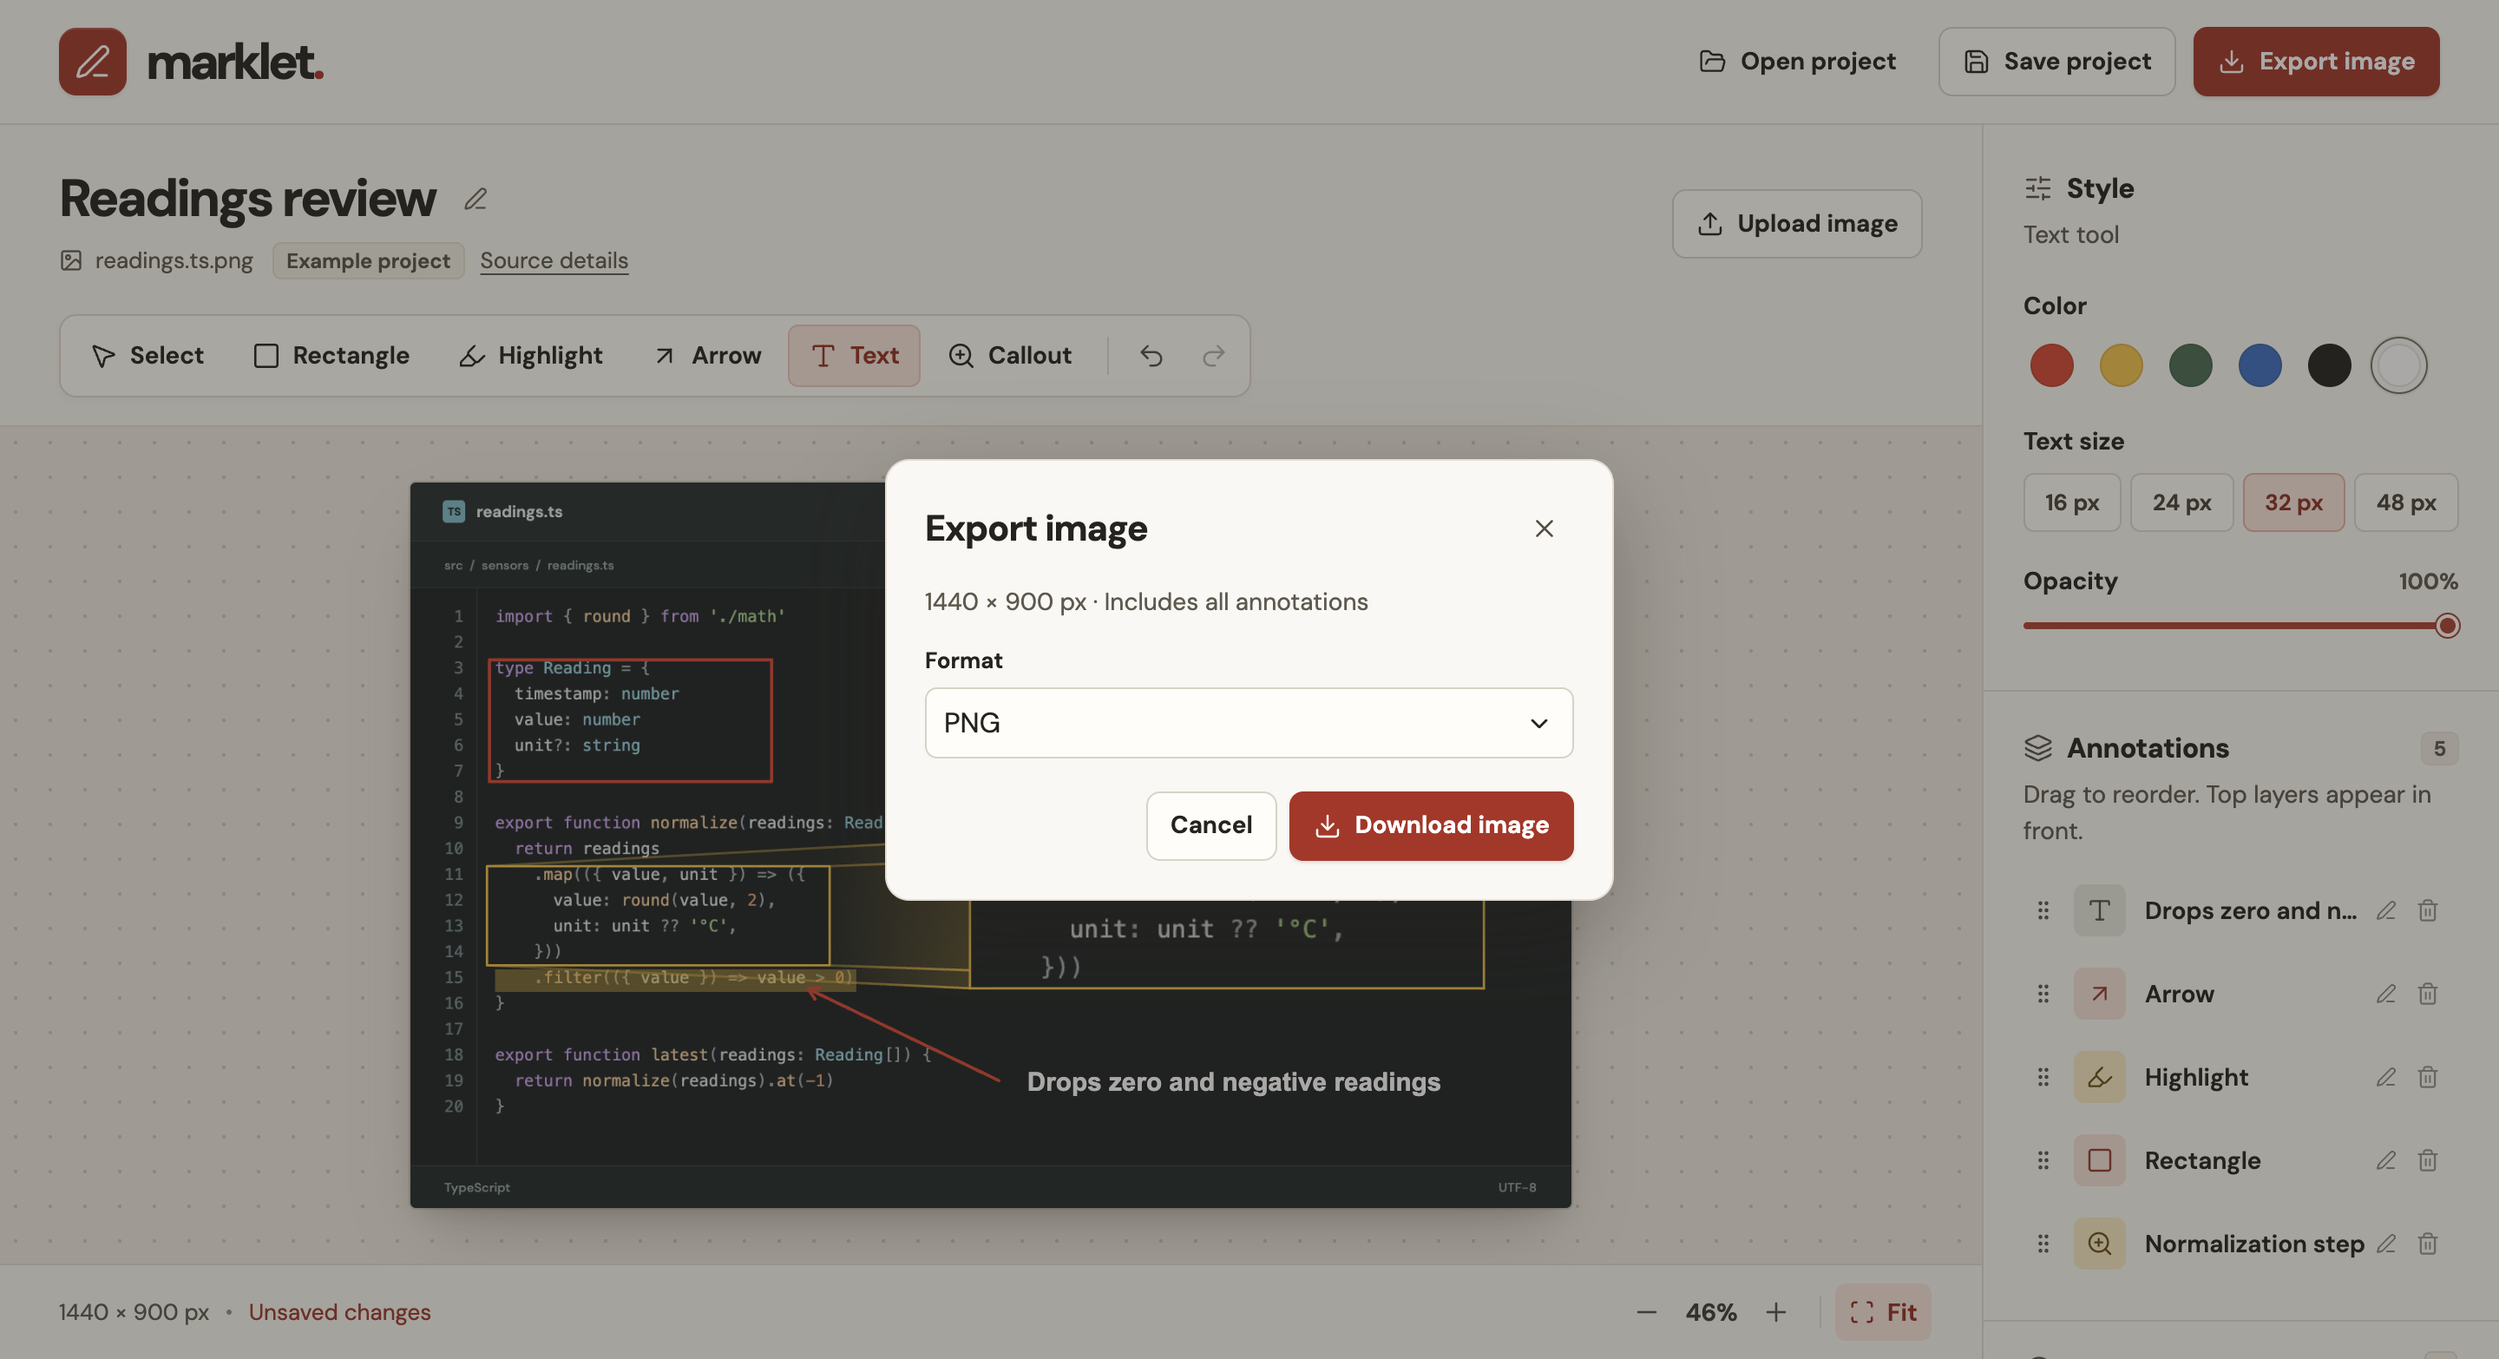
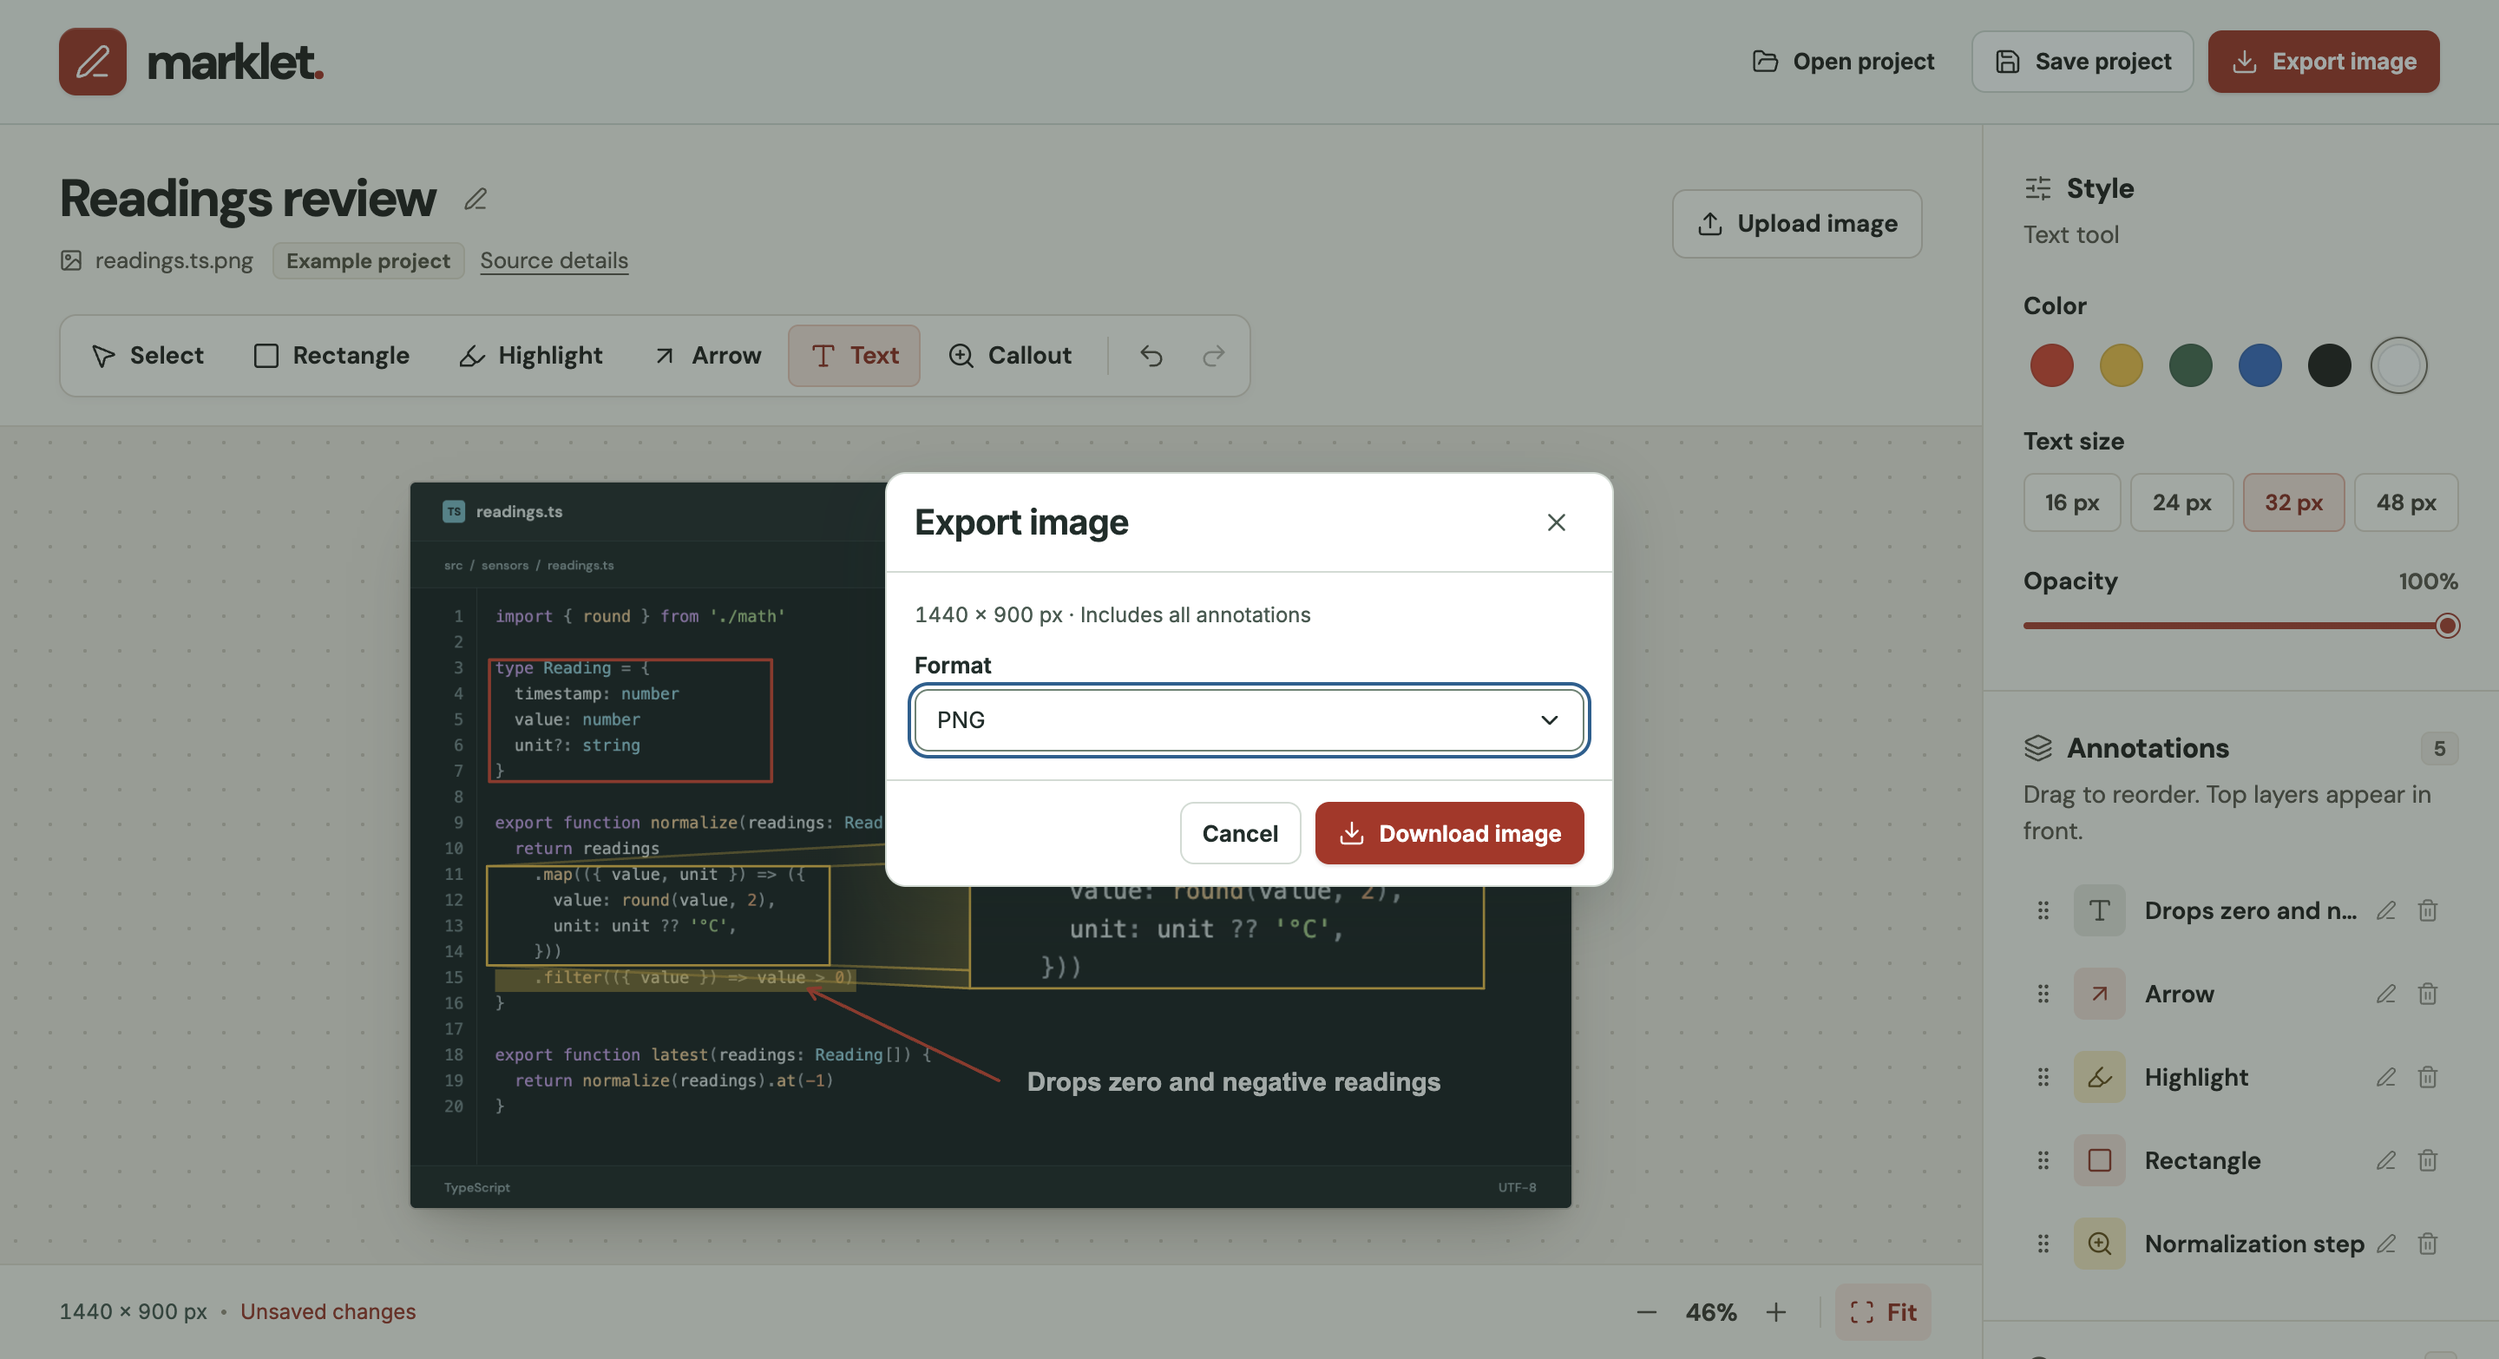
Align export controls with the suite design

diff --git a/src/style.css b/src/style.css
@@ -11,6 +11,13 @@
   --accent-button: #ac3f2c;
   --accent-tint: #f8e8e0;
   --radius: 8px;
+  --ui-font: 'Inter Variable', Inter, system-ui, sans-serif;
+  --ui-ink: #25332f;
+  --ui-muted: #52645a;
+  --ui-panel: #f6f7f4;
+  --ui-border: #d8e0d9;
+  --ui-outline: #788c7e;
+  --ui-focus: #356a9a;
 }
 
 *, *::before, *::after { box-sizing: border-box; }
@@ -31,8 +38,8 @@ h1, h2, h3, p { margin: 0; }
   align-items: center;
   justify-content: space-between;
   padding: 0 34px;
-  border-bottom: 1px solid var(--line);
-  background: var(--paper);
+  border-bottom: 1px solid var(--ui-border);
+  background: var(--ui-panel);
   gap: 20px;
   z-index: 1;
 }
@@ -51,7 +58,7 @@ h1, h2, h3, p { margin: 0; }
 .brand-icon svg { width: 21px; height: 21px; stroke-width: 1.8; }
 
 .project-actions, .button { display: inline-flex; align-items: center; }
-.project-actions { gap: 10px; }
+.project-actions { gap: 8px; }
 .button {
   justify-content: center;
   gap: 8px;
@@ -72,9 +79,13 @@ h1, h2, h3, p { margin: 0; }
 .button-outline:hover:not(:disabled) { background: #f5f0e9; border-color: #d1c8bb; }
 .button-quiet { background: transparent; }
 .button-quiet:hover:not(:disabled) { background: #f1ede5; }
+.project-actions .button, dialog .button { min-height: 36px; padding-inline: 12px; font: 650 13px/1.2 var(--ui-font); }
+:is(.project-actions, dialog) .button-outline { background: #fff; border-color: var(--ui-border); }
+:is(.project-actions, dialog) :is(.button-outline, .button-quiet):hover:not(:disabled) { background: var(--ui-panel); border-color: var(--ui-border); }
+:is(.project-actions, dialog) :focus-visible { outline: 2px solid var(--ui-focus); outline-offset: 2px; }
 
 .editor { display: grid; grid-template-columns: minmax(0, 1fr) 298px; flex: 1; min-height: 0; }
-.workspace { display: grid; grid-template-rows: auto auto minmax(0, 1fr) auto; min-width: 0; min-height: 0; }
+.workspace { display: grid; grid-template: auto auto minmax(0, 1fr) auto / minmax(0, 1fr); min-width: 0; min-height: 0; }
 .workspace-heading { display: flex; align-items: center; justify-content: space-between; padding: 25px 34px 20px; gap: 14px; }
 .project-info { min-width: 0; }
 .project-heading { display: flex; gap: 7px; align-items: center; min-width: 0; }
@@ -152,7 +163,7 @@ h1, h2, h3, p { margin: 0; }
 .drop-overlay span { color: var(--muted); font-size: .875rem; }
 
 .workspace-footer { display: flex; align-items: center; justify-content: space-between; gap: 14px; padding: 8px 29px 8px 34px; min-height: 54px; }
-.canvas-meta { display: flex; align-items: center; gap: 10px; color: var(--muted); font-variant-numeric: tabular-nums; font-size: .8125rem; }
+.canvas-meta { display: flex; align-items: center; gap: 8px; color: var(--ui-muted); font: 400 12px/1.4 var(--ui-font); font-variant-numeric: tabular-nums; }
 .status-separator { flex: 0 0 3px; height: 3px; border-radius: 50%; background: #a29a89; }
 .unsaved { color: #a6402e; }
 .zoom-controls { display: flex; align-items: center; gap: 3px; }
@@ -247,26 +258,32 @@ h1, h2, h3, p { margin: 0; }
 kbd { padding: 2px 5px; border: 1px solid #e6dfd2; border-radius: 4px; color: #5b5548; background: #f5f1e9; font: 650 .75rem/1.2 'DM Sans Variable', system-ui, sans-serif; white-space: nowrap; }
 #shortcuts kbd { margin-left: auto; min-width: 19px; text-align: center; }
 
-dialog { color: inherit; background: var(--paper); border: 1px solid var(--line); width: min(420px, calc(100% - 36px)); padding: 22px; border-radius: 14px; box-shadow: 0 18px 55px #31251e4a; }
-dialog::backdrop { background: #28251e64; }
-.dialog-heading { display: flex; align-items: center; justify-content: space-between; gap: 10px; margin-bottom: 16px; }
-.dialog-heading h2 { font-size: 1.3rem; letter-spacing: -.025em; }
-dialog p { color: var(--muted); margin: 0 0 16px; font-size: .875rem; }
-dialog label { display: block; font-size: .875rem; font-weight: 650; margin-bottom: 7px; }
-#export-dialog label { font-size: .8125rem; }
-dialog textarea, dialog select, dialog input { background: var(--white); width: 100%; border: 1px solid #ded8ce; border-radius: 7px; color: inherit; padding: 9px 10px; }
-#source-summary { display: grid; grid-template-columns: auto 1fr; gap: 7px 14px; font-size: .875rem; }
+dialog { color: var(--ui-ink); background: #fff; border: 1px solid var(--ui-border); width: min(420px, calc(100% - 32px)); padding: 0; border-radius: 12px; box-shadow: 0 12px 36px #182e2630; font: 400 13px/1.4 var(--ui-font); }
+dialog::backdrop { background: #182e2666; }
+.dialog-heading { display: flex; align-items: center; justify-content: space-between; gap: 8px; padding: 12px 16px; border-bottom: 1px solid var(--ui-border); }
+.dialog-heading h2 { font-size: 20px; font-weight: 650; line-height: 1.2; letter-spacing: -.02em; }
+.dialog-heading .icon-button { width: 32px; height: 32px; color: var(--ui-muted); }
+.dialog-heading .icon-button:hover { background: var(--ui-panel); }
+.dialog-body { padding: 16px; }
+dialog p { margin: 0 0 12px; }
+dialog label { display: block; font-weight: 650; margin-bottom: 4px; }
+dialog textarea, dialog select, dialog input { background: #fff; width: 100%; min-height: 36px; border: 1px solid var(--ui-outline); border-radius: 8px; color: inherit; padding: 8px 12px; }
+#export-size { font-size: 12px; color: var(--ui-muted); font-variant-numeric: tabular-nums; }
+#export-error { margin: 12px 0 0; color: #8b3027; overflow-wrap: anywhere; }
+#source-summary { display: grid; grid-template-columns: auto 1fr; gap: 8px 12px; margin: 0; }
 #source-summary dt { font-weight: 600; }
 #source-summary dd { margin: 0; overflow-wrap: anywhere; }
-#source-form label { display: block; margin-top: 14px; }
+#source-form .dialog-body { padding-top: 0; }
+#source-form label:not(:first-child) { margin-top: 12px; }
 dialog textarea { display: block; resize: vertical; min-height: 90px; }
 .select-wrap { position: relative; }
 .select-wrap select { appearance: none; padding-right: 35px; }
-.select-wrap svg { position: absolute; width: 16px; right: 12px; top: 12px; pointer-events: none; }
-.dialog-actions { display: flex; justify-content: flex-end; gap: 7px; margin-top: 19px; }
+.select-wrap svg { position: absolute; width: 16px; height: 16px; right: 12px; top: 10px; pointer-events: none; }
+.dialog-actions { display: flex; justify-content: flex-end; gap: 8px; padding: 12px 16px; border-top: 1px solid var(--ui-border); }
 .shortcuts-list { display: grid; gap: 7px; }
-.shortcuts-list > div { display: flex; align-items: center; justify-content: space-between; gap: 10px; font-size: .875rem; }
-.toast { position: fixed; z-index: 5; bottom: 64px; left: 50%; transform: translateX(-50%); max-width: calc(100% - 32px); padding: 10px 15px; border-radius: 8px; background: #332b24; color: #fff; box-shadow: 0 5px 20px #2c251d37; font-size: .875rem; text-align: center; }
+.shortcuts-list > div { display: flex; align-items: center; justify-content: space-between; gap: 8px; }
+.shortcuts-list kbd { font-family: var(--ui-font); }
+.toast { position: fixed; z-index: 5; bottom: 64px; left: 50%; transform: translateX(-50%); max-width: calc(100% - 32px); padding: 8px 12px; border: 1px solid var(--ui-border); border-radius: 8px; background: #fff; color: var(--ui-ink); box-shadow: 0 4px 16px #182e2624; font: 400 12px/1.4 var(--ui-font); text-align: center; }
 
 @media (max-width: 900px) {
   .app-header { padding-inline: 22px; }
@@ -313,6 +330,11 @@ dialog textarea { display: block; resize: vertical; min-height: 90px; }
   .sample-badge { display: none; }
   .image-info { font-size: .75rem; }
   .upload-button { min-height: 35px; font-size: .8125rem; padding-inline: 8px; }
+}
+@media (max-width: 460px) {
+  .app-header { padding-inline: 8px; gap: 6px; }
+  .brand { font-size: 22px; }
+  .project-actions { gap: 4px; }
 }
 @media (prefers-reduced-motion: reduce) {
   *, *::before, *::after { transition: none !important; }

diff --git a/src/view.ts b/src/view.ts
@@ -124,39 +124,46 @@ export const editorMarkup = `
   <output id="toast" class="toast" role="status" hidden></output>
 
   <dialog id="source-dialog" aria-labelledby="source-title">
-    <div class="dialog-heading"><h2 id="source-title">Source details</h2><button class="icon-button" type="button" data-close aria-label="Close">${icon('x')}</button></div>
-    <dl id="source-summary"></dl>
+    <div class="dialog-heading"><h2 id="source-title">Source details</h2><button class="icon-button" type="button" data-close aria-label="Close dialog">${icon('x')}</button></div>
+    <dl class="dialog-body" id="source-summary"></dl>
     <form id="source-form">
-      <label for="source-description">Source description</label>
-      <textarea id="source-description" rows="3" maxlength="1000"></textarea>
-      <label for="source-production">Production identifier</label>
-      <input id="source-production" type="text" maxlength="200">
-      <div class="dialog-actions"><button class="button button-primary" type="submit">Save details</button></div>
+      <div class="dialog-body">
+        <label for="source-description">Source description</label>
+        <textarea id="source-description" rows="3" maxlength="1000"></textarea>
+        <label for="source-production">Production identifier</label>
+        <input id="source-production" type="text" maxlength="200">
+      </div>
+      <div class="dialog-actions"><button class="button button-outline" type="button" data-close>Cancel</button><button class="button button-primary" type="submit">Save details</button></div>
     </form>
   </dialog>
 
   <dialog id="text-dialog" aria-labelledby="text-title">
     <form id="text-form" method="dialog">
-      <div class="dialog-heading"><h2 id="text-title">Add text</h2><button class="icon-button" type="button" data-close aria-label="Close">${icon('x')}</button></div>
-      <label for="annotation-text">Annotation</label>
-      <textarea id="annotation-text" placeholder="Enter a note…" maxlength="1500" rows="4" required></textarea>
+      <div class="dialog-heading"><h2 id="text-title">Add text</h2><button class="icon-button" type="button" data-close aria-label="Close dialog">${icon('x')}</button></div>
+      <div class="dialog-body">
+        <label for="annotation-text">Annotation</label>
+        <textarea id="annotation-text" placeholder="Enter a note…" maxlength="1500" rows="4" required></textarea>
+      </div>
       <div class="dialog-actions"><button class="button button-outline" type="button" data-close>Cancel</button><button id="text-submit" class="button button-primary" type="submit">Add text</button></div>
     </form>
   </dialog>
 
   <dialog id="export-dialog" aria-labelledby="export-title">
     <form id="export-form" method="dialog">
-      <div class="dialog-heading"><h2 id="export-title">Export image</h2><button class="icon-button" type="button" data-close aria-label="Close">${icon('x')}</button></div>
-      <p id="export-size"></p>
-      <label for="export-format">Format</label>
-      <div class="select-wrap"><select id="export-format"><option value="image/png">PNG</option><option value="image/jpeg">JPEG</option></select>${icon('chevron')}</div>
+      <div class="dialog-heading"><h2 id="export-title">Export image</h2><button class="icon-button" type="button" data-close aria-label="Close dialog">${icon('x')}</button></div>
+      <div class="dialog-body">
+        <p id="export-size"></p>
+        <label for="export-format">Format</label>
+        <div class="select-wrap"><select id="export-format" autofocus><option value="image/png">PNG</option><option value="image/jpeg">JPEG</option></select>${icon('chevron')}</div>
+        <p id="export-error" role="alert" hidden></p>
+      </div>
       <div class="dialog-actions"><button class="button button-outline" type="button" data-close>Cancel</button><button id="export-submit" class="button button-primary" type="submit">${icon('download')} Download image</button></div>
     </form>
   </dialog>
 
   <dialog id="shortcuts-dialog" aria-labelledby="shortcuts-title">
-    <div class="dialog-heading"><h2 id="shortcuts-title">Keyboard shortcuts</h2><button class="icon-button" type="button" data-close aria-label="Close">${icon('x')}</button></div>
-    <div class="shortcuts-list">
+    <div class="dialog-heading"><h2 id="shortcuts-title">Keyboard shortcuts</h2><button class="icon-button" type="button" data-close aria-label="Close dialog">${icon('x')}</button></div>
+    <div class="dialog-body shortcuts-list">
       ${shortcuts}
       <div><span>Reorder with layer handle focused</span><kbd>↑ / ↓</kbd></div>
       <div><span>Undo</span><kbd>Ctrl / ⌘ + Z</kbd></div>

diff --git a/src/main.ts b/src/main.ts
@@ -1,4 +1,5 @@
 import '@fontsource-variable/dm-sans'
+import '@fontsource-variable/inter'
 import { fitsDisplayImage, imageLimits } from '@evidenceworks/document'
 import './style.css'
 import { contains, defaultStyles, drawMark, drawSelection, hitsMark, moveMark, resizeHandles, resizeMark, toolNames, type Mark, type MarkTool, type Point, type ResizeHandle, type Style, type Tool } from './annotations'
@@ -579,6 +580,7 @@ async function saveProject() {
 function openExport() {
   if (!image) return
   element('export-size').textContent = `${outputSize.x} × ${outputSize.y} px · Includes all annotations`
+  element('export-error').hidden = true
   exportDialog.showModal()
 }
 
@@ -636,6 +638,8 @@ async function exportImage(event: Event) {
   if (!project || !image) return
   const button = element<HTMLButtonElement>('export-submit')
   const type = element<HTMLSelectElement>('export-format').value
+  const error = element('export-error')
+  error.hidden = true
   button.disabled = true
   try {
     const name = filenameFor(project.name)
@@ -644,7 +648,8 @@ async function exportImage(event: Event) {
     exportDialog.close()
     notify('Image downloaded')
   } catch {
-    notify('Could not export at these dimensions.')
+    error.textContent = 'Could not export at these dimensions.'
+    error.hidden = false
   } finally {
     button.disabled = false
   }
